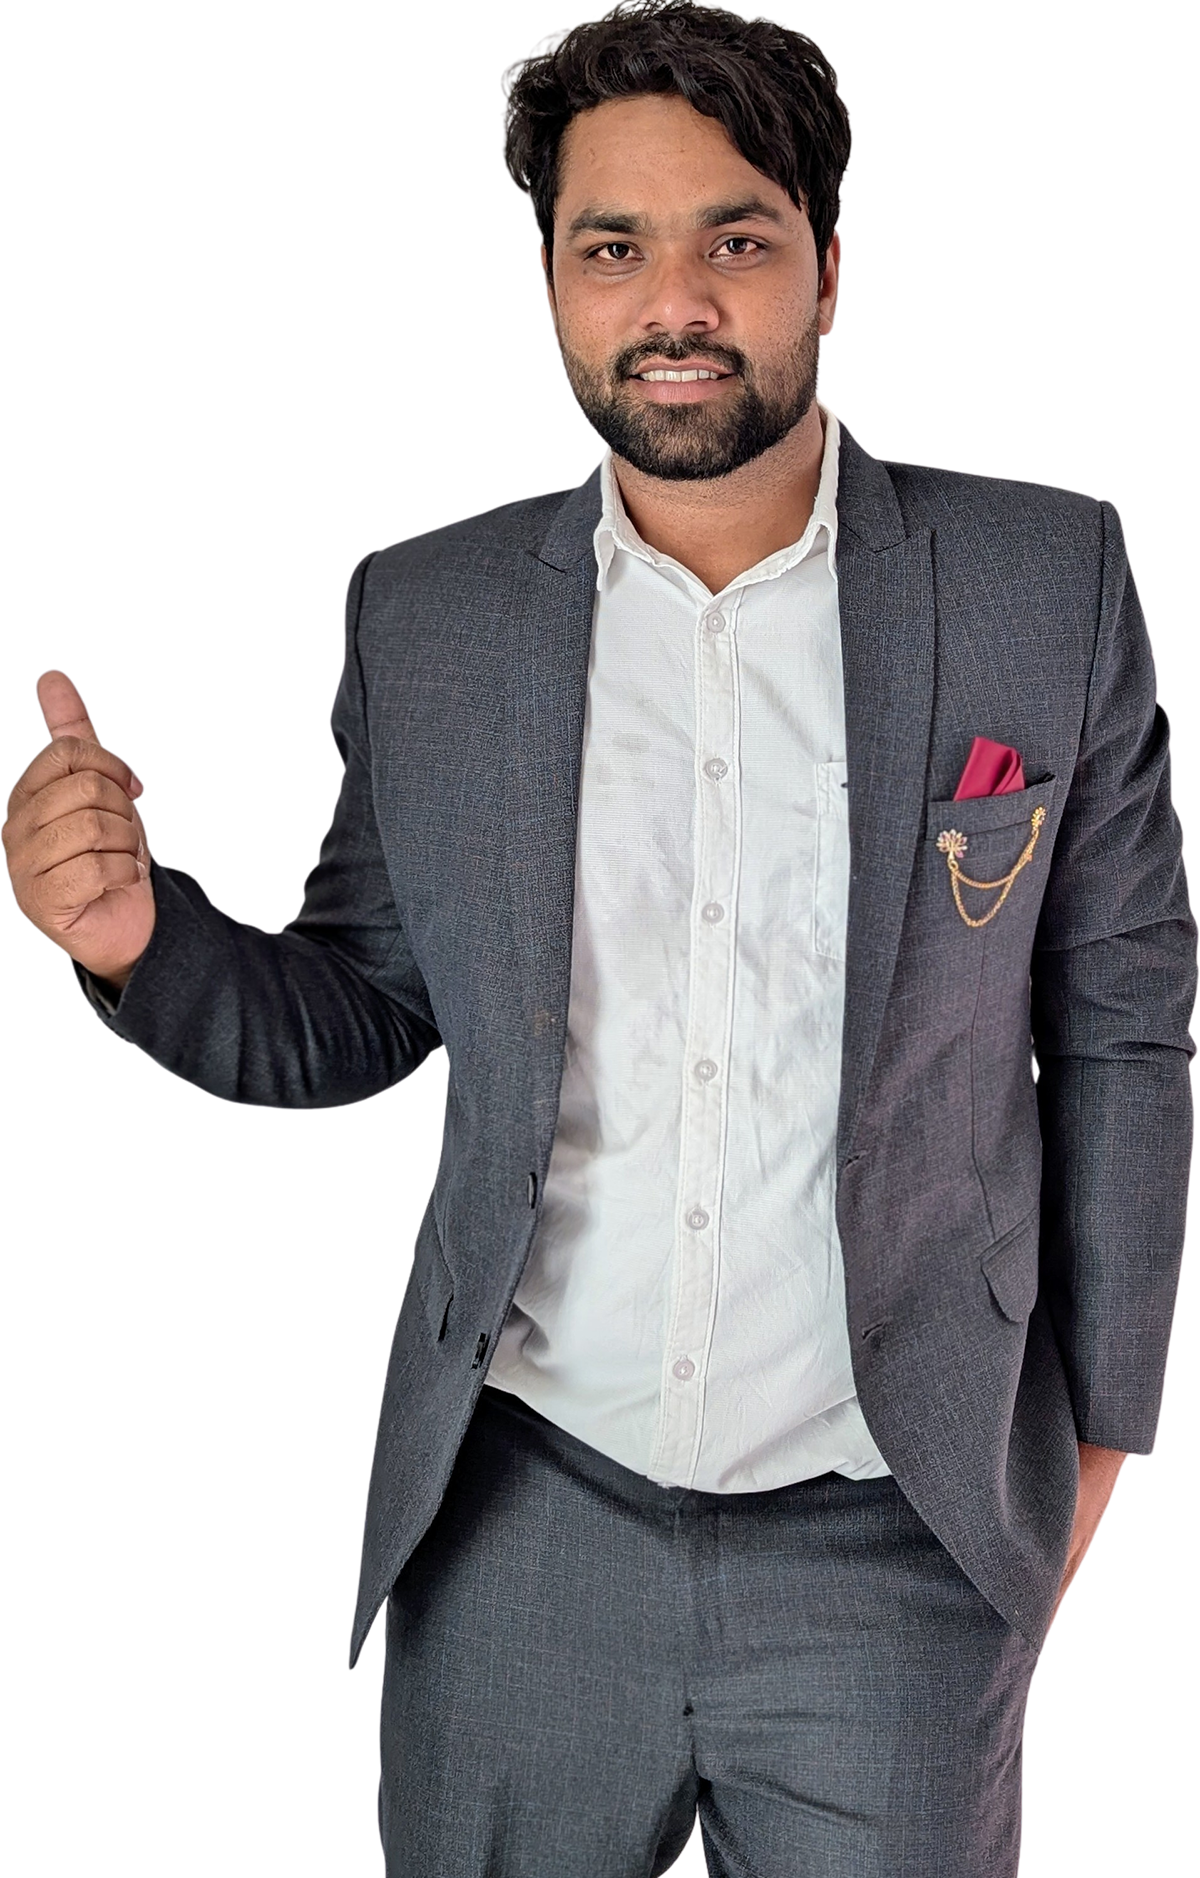
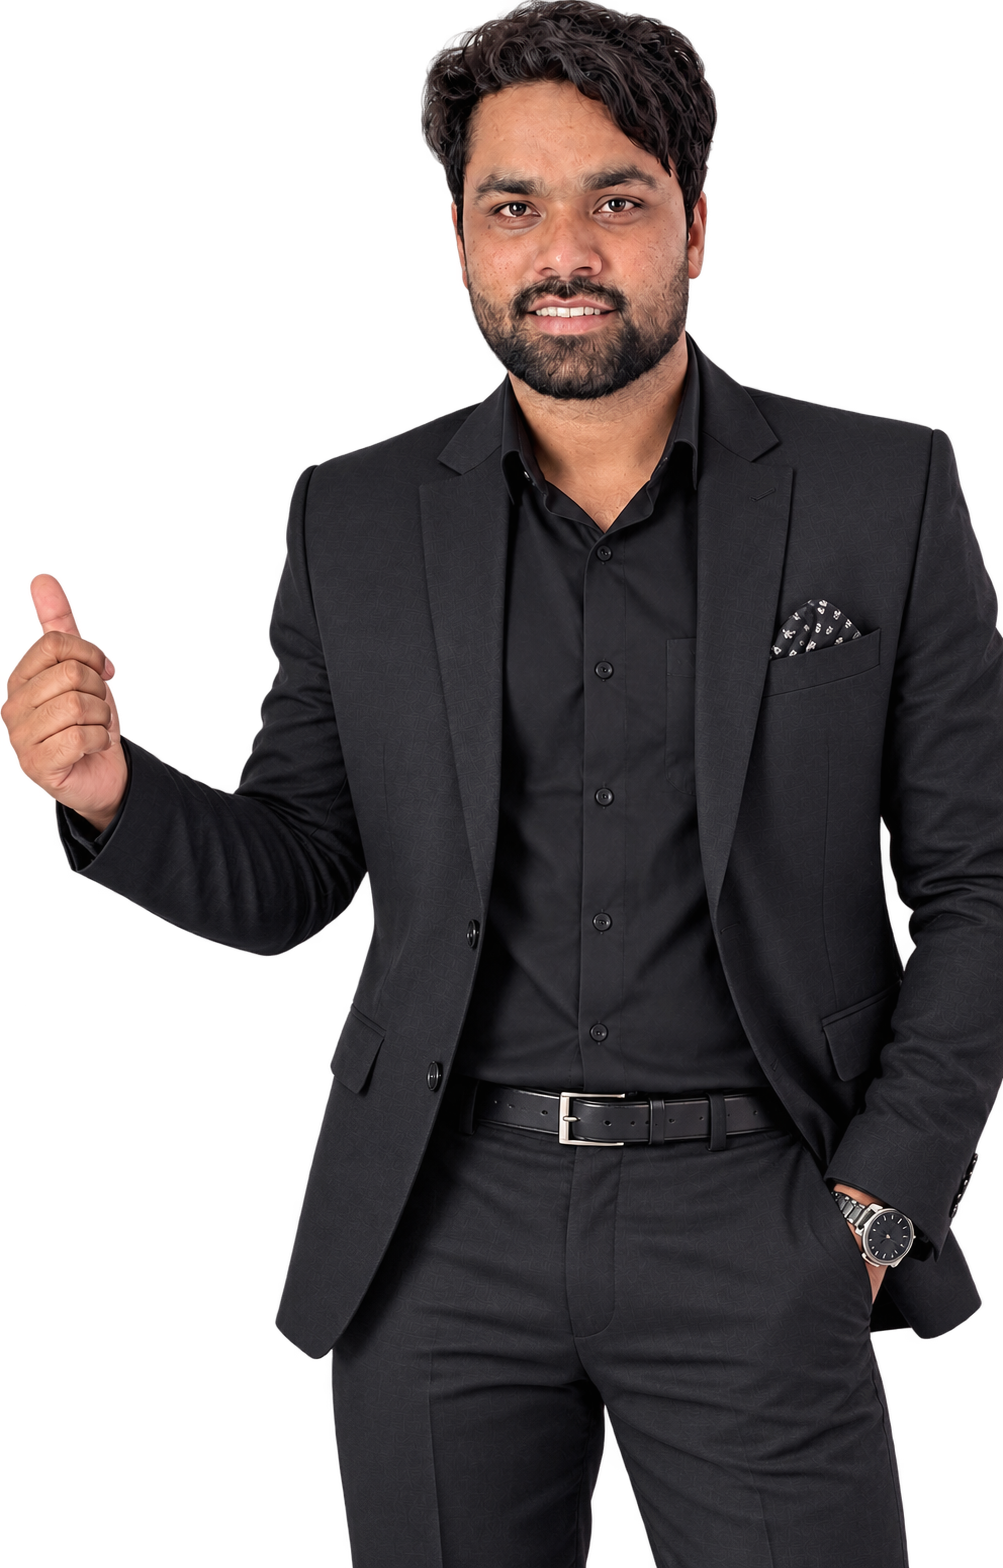
new change

diff --git a/index.html b/index.html
@@ -31,8 +31,7 @@
                         <h2 class="hero-title fw-medium text-white title-profile" data-aos="fade-right"><span>Looking For</span> Senior UI UX Designer & Product Designer</h2>
                         <img data-aos="fade-right" data-aos-delay="300" class="hero-arrow" src="assets/images/hero/arrow.png" alt="" />
                         <p data-aos="fade-right" data-aos-delay="500" class="hero-text text-white">
-                            Immediate Joiner. Looking for better opportunity as a UI UX Designer and Product Designer. BCA. With total a 6 Years of experience. With Key Skills - User Interface Design, Interaction Design, Prototyping Wireframing, Website Design
-                            Layout, Responsive Design, User Research, Information Architecture, Usability Testing, Accessibility, etc
+                           Immediate Joiner | UI/UX & Product Designer with 6+ years of experience. BCA graduate specializing in user-centered design, interaction design, wireframing, prototyping, responsive design, user research, information architecture, usability testing, and accessibility.
                         </p>
                         <div data-aos="fade-right" data-aos-delay="300" class="d-flex gap-3 set-drid">
                             <a href="project.html" class="btn btn-primary">
